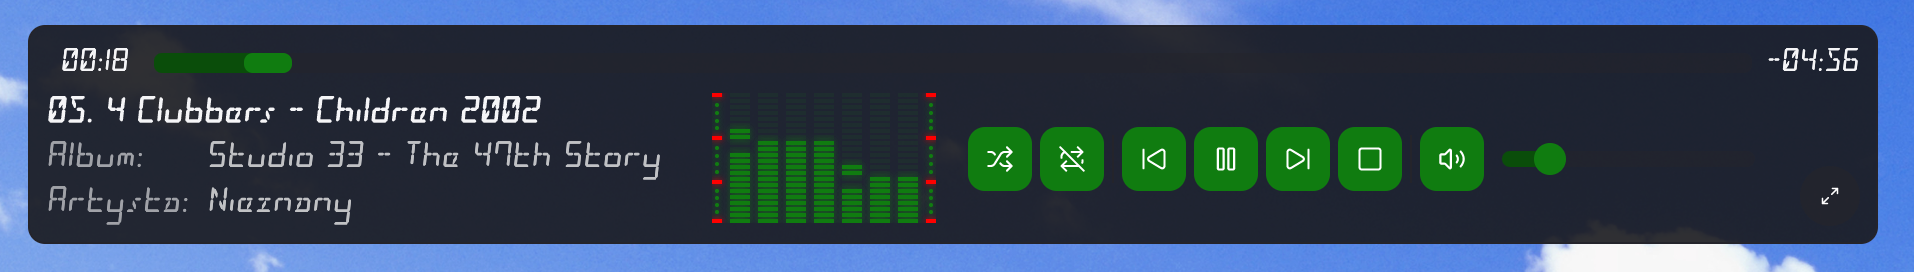
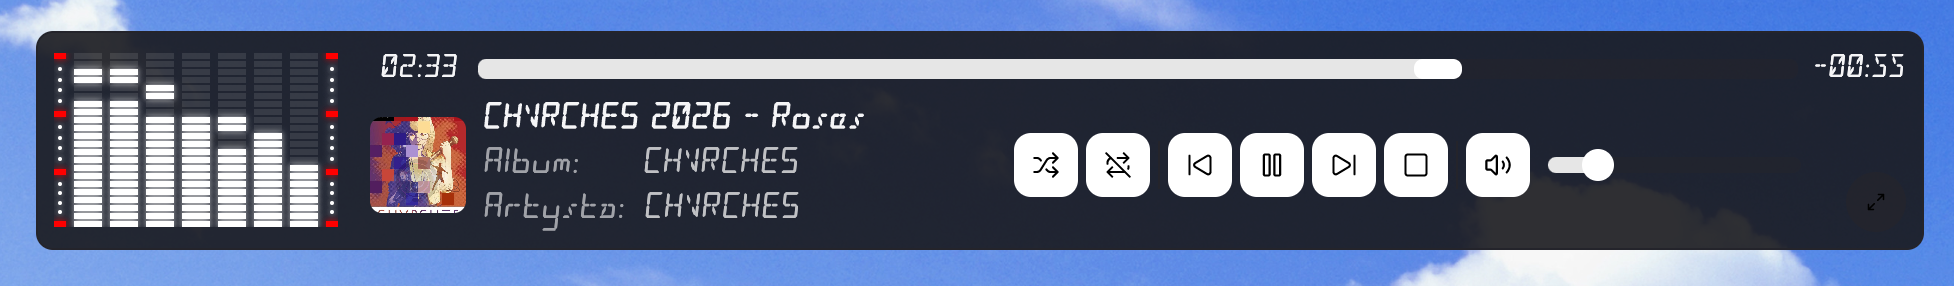
Changed position of MiniVisualizationControl in PlayerMiniControl

diff --git a/VisualPlayer/Controls/MiniVisualizationControl.cs b/VisualPlayer/Controls/MiniVisualizationControl.cs
@@ -25,26 +25,28 @@ public class MiniVisualizationControl : TemplatedControl
     public const int SegmentCount = LogicalLevelCount * 2;
     public const int CenterMaximumDistance = LogicalLevelCount / 2;
 
-    public const double EdgeBarHeight = 2;
+    public const double EdgeBarHeight = 3;
     public const double EdgeDotSize = 2;
     public const double EdgeSpacing = 4;
-    public const double EdgeWidth = 5;
+    public const double EdgeWidth = 6;
+
+    public const double FloatingBarDescentRate = 10;
+    public const double FloatingBarRestartDelay = 0.3;
 
     public const double MainDescentRate = 20;
-    public const double FloatingBarDescentRate = 10;
-    public const double RegularFloatingBarFallDelay = 0.2;
-    public const double FloatingBarRestartDelay = 0.3;
     public const double MinimumVisibleLevel = 0.5;
+    public const double RegularFloatingBarFallDelay = 0.2;
 
-    public const double InactiveSegmentOpacity = 0.10;
+    
     public const double ActiveSegmentOpacity = 1.0;
+    public const double InactiveSegmentOpacity = 0.10;
     public const double GlowBlurRadius = 4;
     public const double GlowOpacity = 0.85;
 
-    public const double SegmentHeight = 2;
+    public const double SegmentHeight = 3;
     public const double SegmentHorizontalSpacing = 4;
     public const double SegmentVerticalSpacing = 1;
-    public const double SegmentWidth = 10;
+    public const double SegmentWidth = 14;
 
     #endregion CONST
 

diff --git a/VisualPlayer/Contexts/TranslationContext.cs b/VisualPlayer/Contexts/TranslationContext.cs
@@ -60,7 +60,23 @@ public sealed class TranslationContext : ViewModelBase
 
     public string this[string key] => Translate(key);
 
-    public static string LangDirectoryPath => Path.Combine(AppContext.BaseDirectory, LANG_DIRECTORY_NAME);
+    public static string LangDirectoryPath
+    {
+        get
+        {
+            var defaultPath = Path.Combine(AppContext.BaseDirectory, LANG_DIRECTORY_NAME);
+            if (!OperatingSystem.IsMacOS())
+                return defaultPath;
+
+            var bundleResourcesPath = Path.GetFullPath(Path.Combine(
+                AppContext.BaseDirectory,
+                "..",
+                "Resources",
+                LANG_DIRECTORY_NAME));
+
+            return Directory.Exists(bundleResourcesPath) ? bundleResourcesPath : defaultPath;
+        }
+    }
 
     #endregion PROPERTIES
 
